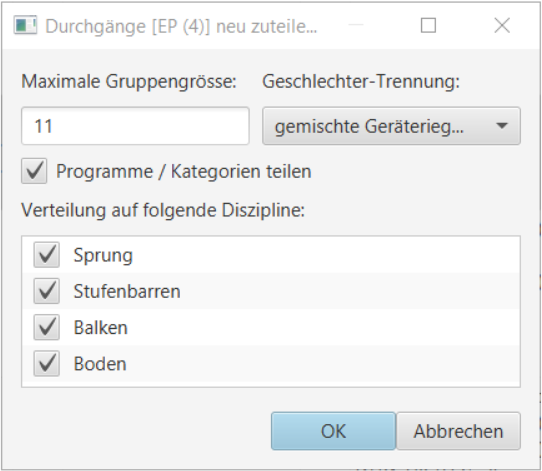
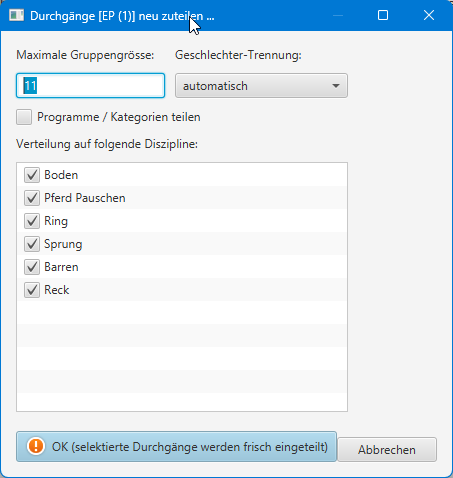
Initial commit v2r3 updates

Changed region(s): [[0.0, 0.0, 1.0, 1.0], [0.7417, 0.4756, 0.7726, 0.5053]]

diff --git a/wettkampf-vorbereitung/riegeneinteilung_erstellen/README.md b/wettkampf-vorbereitung/riegeneinteilung_erstellen/README.md
@@ -9,11 +9,13 @@ Die Riegeneinteilung soll helfen, die Turner in möglichst homogenen und gleichm
 1. `Riegen- & Durchgänge frisch einteilen`: Es werden pro Geschlecht, Kategorie und Verein jeweils eine Riege erstellt. Diese bildet die kleinste verschiebbare Einheit für die Zuweisung auf ein Startgerät in einem Durchgang. Die Funktion kennt momentan nur einen Parameter: Die maximale Gruppengrösse. Sie wird mit 11 vorbelegt und kann vom Benutzer individuell angepasst werden. Danach werden die Gruppen so verteilt, dass pro Durchgang möglichst gleichgrosse Geräteriegen existieren und dass Riegen von einem Verein möglichst zusammenbleiben \(z.B. Turner und Turnerinnen\). Danach können die Zuteilungen in der oberen Liste beliebig verändert werden.
 2. `Einteilung von Riegen & Durchgängen zurücksetzen`: Es werden alle Riegen- und Durchgangs- und Startgeräte-Einteilungen zurückgesetzt.
 
-Wenn mindestens ein Durchgang \(Multiselektion mittels `CTRL+linke Maustaste` oder `SHIFT+linke Maustaste` erweitern\) in der Liste selektiert ist, können darauf diverse Überarbeitungsfunktionen angewendet werden:
+Wenn mindestens ein Durchgang \(Multiselektion mittels `CTRL+linke Maustaste` oder `SHIFT+linke Maustaste` erweitern\) in der Liste selektiert ist, können darauf diverse Überarbeitungsfunktionen angewendet werden (resp. mit `rechte Maustaste` auf der Durchgangs-Zeile für Popup-Menu mit derselben Auswahl):
 
 ![](/assets/edit-riegen-planning.png)
 
-1. ![](/assets/durchgang-partiell-neuverteilen.png)`Durchgang neu einteilen`: Die selektierten Durchgänge können mit angepassten Parameter neu eingeteilt werden. 
+1. `Durchgang neu einteilen`: Die selektierten Durchgänge können mit angepassten Parameter neu eingeteilt werden. 
+
+   ![](/assets/durchgang-partiell-neuverteilen.png)
 
    Die nicht selektierten Durchgänge werden dabei nicht verändert.  
 
@@ -22,8 +24,20 @@ Wenn mindestens ein Durchgang \(Multiselektion mittels `CTRL+linke Maustaste` od
 
 2. `Durchgänge zusammenlegen`: Wenn mindestens zwei Durchgänge selektiert sind, dann können diese mit dieser Funktion zusammengelegt werden. Die Turner-/Innen bleiben dabei bei ihrem eingeteilten Startgerät. Für den zusammengelegten Durchgang kann eine neue Bezeichnung gewählt werden.
 3. `Durchgang umbenennen`: Wenn genau ein Durchgang selektiert ist, dann kann diesem hiermit ein neuer Name vergeben werden. Sollte dabei ein bereits existierender Name vergeben werden, so kommt dies einer Durchgangs-Zusammenlegung gleich.
-4. `In anderen Durchgang verschieben`: Wenn genau ein Durchgang selektiert ist, dann können zugeteilte Riegen in andere Durchgänge verschoben werden. Es klappt ein Untermenü mit allen Riegennamen aus dem Durchgang auf. Die kleinste Riege ist zu oberst, die grösste zu unterst. Wird eine Riege ausgewählt kann im weiteren Untermenü der Ziel-Durchgang ausgewählt werden.
-5. `Auf anderes Startgerät verschieben`: Wenn genau ein Durchgang selektiert ist, dann können zugeteilte Riegen in eine andere Startgerät-Riege verschoben werden. Es klappt ein Untermenü mit allen Riegennamen aus dem Durchgang auf. Die kleinste Riege ist zu oberst, die grösste zu unterst. Wird eine Riege ausgewählt kann im weiteren Untermenü der Ziel-Startgeräteriege ausgewählt werden. Die Ziel-Startgeräteriegen sind mit ihrer aktuellen Grösse gekennzeichnet.
+4. `Durchgänge in Gruppe zusammenfassen`: Bei vielen Durchgängen wird es übersichtlicher, wenn parallel durchführbare Durchgänge in einer übergeordneten Durchganggruppe zusammengefasst werden. Siehe [detailierte Beschreibung für die Durchgang-Planung](durchgang-planung.md)
+5. `Mit leerer Riege besetzen`: Jedes Gerät, das im Wettkampf geturnt werden soll, muss entweder mit mindestens einer Startriege oder aber mit einer leeren Riege belegt werden. Geräte, die keine Riegenblegegung haben, bewirken folgendes Verhalten:
+   * In der Resultaterfassung werden die Geräte ausgeblendet, die keine Riegenbelegung haben.
+   * In der Rangliste werden die Diszipline (Geräte) nicht aufgelistet, wenn sie keine Riegenblegung haben.
+   * _Ausnahme_: Wenn überhaupt keine Einteilung gemacht wird, gibt es keine Ausgeblendeten Diszipline/Geräte.
+
+   Wenn diese Funktion auf einer Disziplin-/Gerätespalte angewendet wird, wird die leere Riege nur dort hinzugefügt.
+   Wenn diese Funktion vorne in der Durchgang-Spalte angewendet wird, werden überall dort leere Riegen hinzugefügt, wo noch keine Startriegeneinteilung existiert.
+6. `Leere Riegen entfernen`: Entfernt eine allenfalls vorhandene leere Riege.
+   
+   Wenn diese Funktion auf einer Disziplin-/Gerätespalte angewendet wird, wird die leere Riege nur dort entfernt.
+   Wenn diese Funktion vorne in der Durchgang-Spalte angewendet wird, werden alle existierende leeren Riegen in dem selektierten Durchgang entfernt.
+7. `In anderen Durchgang verschieben`: Wenn genau ein Durchgang selektiert ist, dann können zugeteilte Riegen in andere Durchgänge verschoben werden. Es klappt ein Untermenü mit allen Riegennamen aus dem Durchgang auf. Die kleinste Riege ist zu oberst, die grösste zu unterst. Wird eine Riege ausgewählt kann im weiteren Untermenü der Ziel-Durchgang ausgewählt werden.
+8. `Auf anderes Startgerät verschieben`: Wenn genau ein Durchgang selektiert ist, dann können zugeteilte Riegen in eine andere Startgerät-Riege verschoben werden. Es klappt ein Untermenü mit allen Riegennamen aus dem Durchgang auf. Die kleinste Riege ist zu oberst, die grösste zu unterst. Wird eine Riege ausgewählt kann im weiteren Untermenü der Ziel-Startgeräteriege ausgewählt werden. Die Ziel-Startgeräteriegen sind mit ihrer aktuellen Grösse gekennzeichnet.
 
 ## Drag & Drop Unterstützung bei der Durchgang-Planung
 

diff --git a/wettkampf-durchfuhrung/ranglisten_erstellen.md b/wettkampf-durchfuhrung/ranglisten_erstellen.md
@@ -6,8 +6,51 @@ Die Rangliste wird sofort in der Standard-Einstellung gerechnet und angezeigt:
 
 |  |  |
 | :--- | :--- |
-| Nun können sowohl Gruppierungen als auch Filter konfiguriert werden, um die Abgrenzungen nach den eigenen Vorstellungen einzustellen. Mit den vier möglichen Gruppierungskriterien lassen sich auf vier Stufen jeweils eine der folgenden Gruppierungskriterien einstellen: So lässt sich z.B. eine separate Rangliste pro Verband oder pro Verein oder pro Jahrgang etc. erstellen. | ![](/assets/rangliste-gruppierungen.png) |
+| Nun können sowohl Gruppierungen als auch Filter konfiguriert werden, um die Abgrenzungen nach den eigenen Vorstellungen einzustellen. Mit den vier möglichen Gruppierungskriterien lassen sich auf vier Stufen jeweils eine der folgenden Gruppierungskriterien einstellen: So lässt sich z.B. eine separate Rangliste pro Verband oder pro Verein oder pro Jahrgang/Altersklasse etc. erstellen. | ![](/assets/rangliste-gruppierungen.png) |
 | Mit dem Filter lässt sich nach der Gruppierung ein Filter einstellen, dass z.B. mit der Gruppierung "`Geschlecht`" im Filter nur noch die Turnerinnen in der Rangliste aufgeführt werden: | ![](/assets/rangliste-filter.png) |
 
-![](/assets/rangliste-drucken.png)Am Ende, oder nach jeder gewünschter Ranglisten-Einstellung, lässt sich die Rangliste drucken: 1. Je nach Papierformat und ausgewähltem Drucker müssen ev. die Anzahl Zeilen pro Seite justiert werden. 2. Mit aktivierter Checkbox "`via Browser`" wird die Rangliste als HTML-Datei gespeichert und im Webbrowser geöffnet. In dieser Form lässt sie sich gut im Internet integrieren, aber auch mit jedem aktuellen Web-Browser ausdrucken. 3. Mit deaktivierter Checkbox "`via Browser`" kann der gewünschte Drucker ausgewählt werden. Beim Drucken via Web-Browser sind jeweils die Seitenränder und die Orientierung so anzupassen, dass die Ranglisten mit dem Seitenumbruch an der richtigen Stelle funktionieren. Beim direkten Drucken sind keine individuellen Einstellungen möglich.
+![](/assets/rangliste-drucken.png)
 
+Am Ende, oder nach jeder gewünschter Ranglisten-Einstellung, lässt sich die Rangliste drucken:
+
+1. Je nach Papierformat und ausgewähltem Drucker müssen ev. die Anzahl Zeilen pro Seite justiert werden. 
+2. Mit aktivierter Checkbox "`via Browser`" wird die Rangliste als HTML-Datei gespeichert und im Webbrowser geöffnet. In dieser Form lässt sie sich gut im Internet integrieren, aber auch mit jedem aktuellen Web-Browser ausdrucken.
+3. Mit deaktivierter Checkbox "`via Browser`" kann der gewünschte Drucker ausgewählt werden. Beim Drucken via Web-Browser sind jeweils die Seitenränder und die Orientierung so anzupassen, dass die Ranglisten mit dem Seitenumbruch an der richtigen Stelle funktionieren. Beim direkten Drucken sind keine individuellen Einstellungen möglich.
+
+## Rangliste Einstellungen speichern
+
+Um am Wettkampf selbst keine Überraschungen bei der Ranglistenerstellung zu befürchten, lassen sich die gewünschten Einstellungen abspeichern.
+
+![](/assets/rangliste-speichern.png)
+
+Gespeicherte Ranglisteneinstellungen werden auch mit der Wettkampf Export-Funktion mit exportiert und können so bequem auf den Rechner im Rechnungsbüro übertragen werden.
+
+Die gespeicherten Einstellungen können auch bei anderen Wettkämpfen wiederverwendet werden. Sie lassen sich einfach per Copy/Paste aus dem Wettkampf-Folder an den neuen Ziel-Wettkampf kopieren.
+
+![](/assets/rangliste-gespeichert-auswaehlen.png)
+
+## Gespeicherte Rangliste bereitstellen und publizieren
+
+Wenn der Wettkampf im Netz hochgeladen ist, und aktuell eine Verbindung zum Server hergestellt ist, kann die gespeicherte Ranglisteneinstellung auf dem Server bereitgestellt werden:
+
+![](/assets/rangliste-bereiststellen.png)
+
+Der Name der Rangliste kann hierüber auch etwas weniger technisch formuliert werden:
+
+![](/assets/rangliste-bereiststellen-dlg.png)
+
+
+Nach dem Bereitstellen steht auch die `Publikation freigeben` funktion zur Verfügung:
+
+![](/assets/rangliste-bereiststellen2.png)
+
+Bis dahin ist die Rangliste online sichtbar (als Titel), wird aber noch ohne Inhalt angezeigt:
+
+![](/assets/rangliste-bereitgestellt-webapp.png)
+![](/assets/rangliste-bereitgestellt-webapp2.png)
+
+Erst wenn die Rangliste publiziert wird (in der Regel nach der Rangverkündigung), wird sie für alle Webapp-Benutzer mit Inhalt sichtbar:
+
+![](/assets/rangliste-publizieren.png)
+
+Eine publizierte Rangliste kann nicht mehr zurückgenommen werden. Allerdings lässt sich die Bereitstellung wiederholen, mit geänderten Parameter. Dies ist nur Sinnvoll, wenn nach der Publikation Fehler in den Filtereinstellungen korrigiert werden müssen.

diff --git a/wettkampf-vorbereitung/wettkampf_uebersicht/altersklassen.md b/wettkampf-vorbereitung/wettkampf_uebersicht/altersklassen.md
@@ -1,0 +1,66 @@
+# Altersklassen
+
+Altersklassen sind ein Gruppierungs-Hilfsmittel sowohl für die Riegen-Zusammenstellung, als auch für die Ranglistenerstellung.
+
+## Einteilung in Riege für die Durchgangsplanung
+
+Es können damit alle Teilnemher/-Innen einer Altersklasse in einer Riege im Durchgang eingeteilt werden. Dies ermöglicht die Planung, wie die Wertungs-/Kampfrichter aufgestellt werden müssen. Diese müssen dann jeweils alle einer Altersklasse bewerten, so dass es konsistente Bewertungungen geben kann.
+
+## Berechnung des Medallienbedarfs
+
+Wenn die Ranglisten anhand der Altersklassen gruppiert werden, sind die erforderlichen Medallien nicht ausschliesslich aus den Wettkampf-Programmen abzuleiten, sondern zusätzlich auch noch pro existierender Altersklasseneinteilung.
+
+## Zusammenfassung in der Rangliste
+
+Es können damit alle Teilnehmer/-Innen einer Altersklasse in einer gemeinsamen Rangierung aufgelistet werden.
+
+## Berechnungsarten
+
+### Alter am Wettkampf-Tag
+
+Die Altersklasse berechnet sich anhand des effektiven Geburtsdatums des Teilnehmers, der Teilnehmerin. Dieses wird gegenüber dem Wettkampfdatum gestellt. Die Differenz in ganzen Jahren ist die relevante Zahl für die Eingliederung in die Altersklasse.
+
+### Alter nach Jahrgang in dem Jahr, wo der Wettkampf durchgeführt wird.
+
+Die Jahrgangs-Altersklasse berechnet sich anhand des Jahrgangs des Teilnehmers, der Teilnehmerin. Dieses wird gegenüber dem Jahr im Wettkampf-Datum gestellt. Die Differenz ist die relevante Zahl für die Eingliederung in die Altersklasse.
+
+## Gliederungsmöglichkeiten der Altersklassen
+
+Die Alterklassen werden im Grunde anhand von Altersgrenzen mit numerischen Angaben und komma-separiert festgelegt.
+Die Altergrenzen `7,10,16,25` ergeben damit folgende Altersklassen:
+* Altersklasse bis 6
+* Altersklasse 7-9
+* Altersklasse 10-15
+* Altersklasse 16-24
+* Altersklasse ab 25
+
+Um komplexere Strukturen zu definieren, gibt es zusätzlich folgende Möglichkeiten:
+* Explizite Angabe der Altersklassenbezeichnung (vorangestellte Buchstaben `<Bezeichnung><Altersgrenze>`)
+* Range-Angabe für automatische Inkrements um 1 Jahr zwischen zwei Altersgrenzen (verbinden der Altersgrenze mit Bindestrich `<von>-<bis>`)
+* Explzite Inkrement-Angabe, sofern in einem Range nicht jedes Jahr eine neue Altersgrenze generieren soll (vinbinden mit Division und Inkrement-Wert `/<Inkrement-Wert>`)
+
+Zusammengesetzt ergibt sich volgener Syntax:
+
+`[<Bezeichnung>]<VonAlter>[-<BisAlter>[/<InkrementWert]]`
+
+## Altersklasse als Wettkampf-Bestandteil
+
+Wenn die Altersklassen im Erfassungsdialog zum Wettkampf definiert oder ausgewählt wird, wird sie sowohl in der Wettkampfübersicht als auch bei der Riegeneinteilung und in der Rangliste integriert angewendet.
+
+In der Wettkampf-Übersicht werden die Wettkampf-Altersklassen aufgeführt, und die Gliederungen mit den Altersklassen erweitert:
+Beispiel mit Turn10:
+![](/assets/Turn10-Wettkampfuebersicht-Altersklassen.png)
+
+Beispiel TG Allgäu:
+![](/assets/TGAllgaeu-Wettkampfuebersicht-Altersklassen.png)
+
+Die Riegeneinteilung erfolgt anhand der hinterlegten Altersklassen.
+
+Beispiel TG Allgäu mit Pflicht und Kür und Riegen mit Altersklassen-Bezeichnungen:
+![](/assets/TGAllgaeu-WertungTab-Pflicht-Kuer-Altersklassen-Riegen.png)
+
+## Altersklasse als dynamisch hinzugefügter Filter/Gruppierer in der Rangliste
+
+Sofern nicht primär nach Altersklassen dividiert wird, kann es immer noch sinnvoll sein, die Altersklassen-Gliederung in der Rangliste zu verwenden. Diese Möglichkeit besteht dann (ohne Wettkampf-Altersklassen) mit den vordefinierten Altersklassen.
+
+![](/assets/rangliste-altersklasse-grouper.png)

diff --git a/stammdatenpflege/wettkampf_anlegen.md b/stammdatenpflege/wettkampf_anlegen.md
@@ -8,19 +8,33 @@ Dabei öffnet sich ein Dialog, in dem folgende Werte angegeben werden müssen:
 
 ![](/assets/wettkampf-anlegen-dlg.png)
 
-1. Datum, an dem der Wettkampf durchgeführt wird.
-2. Name des Wettkampfs \(Wettkampftitel\)
-3. Art des Wettkampfs \(Programm\). Dies können folgende Wettkampfarten sein: Geräteturn-Wettkampf, Kunstturn-Wettkampf 
-
-   oder Athletiktest.
+1. Wettkampf-Datum, an dem der Wettkampf durchgeführt wird.
+2. Titel des Wettkampfs, ohne Datum, ev. mit Ortsangabe (z.B. GeTu-Regionalmeisterschaft Basel-Stadt)
+3. Art des Wettkampfs \(Programm\). Dies können folgende Wettkampfarten sein:
+   * Geräteturn-Wettkampf (plus eine Variante BLTV mit Altersabgrenzungen in den Kategorien)
+   * [Turn10® Programme BS/OS](https://www.turn10.at/de/das-ist-turn10)
+      * Turn10®-Verein [Abbildung Turn10® Verein](https://www.turn10.at/de/vereine/regeln) für bis zu 7 Geräte (Geräte mit ausschliesslich M/W oder gemischt M+W Belegungsregeln)
+      * Turn10®-Schule [Abbildung Turn10® Schule](https://www.turn10.at/de/schulen/regeln2) für bis zu 5 Geräte (Barren/Balken mit ausschliesslicher M/W, Rest mit gemischt M+W Belegungungsregel)
+   * Kunstturn-Wettkampf
+      * KuTu-Wettakmpf für männliche Gerätebelegung
+      * KuTuRi-Wettkampf für die weibliche Gerätebelegung
+      * KuTu TG Allgäu Kür & Pflicht (Spezialprogramm mit Pflicht & Kür und angepassten DTB Programmen, männlicher Gerätebelegungsregel)
+      * KuTuRi TG Allgäu Kür & Pflicht (Spezialprogramm mit Pflicht & Kür und angepassten DTB Programmen, weiblicher Gerätebelegungsregel)
+   * 
+   * Athletiktest
 4. EMail-Adresse für die Notifikation an die Wettkampf-Administration bei Online-Anmeldungen
-5. Schwellwerte für Auszeichnungen. Die Prozent-Angabe darf bis zu drei Stellen nach dem Komma haben. Die Angaben 
-
-   können kombiniert verwendet werden. So kann z.B. eine Auszeichnung für die 40% Besten Ergebnisse und bei Erreichung 
-
-   eines Mindest-Gerätedurchschnitts vergeben werden. 
-
-   Bei Geräte-Tests wird oft eine Auszeichnung vergeben, wenn mind. 7.5 Punkte im Gerätedurchschnitt erreicht werden.
-
+5. Schwellwerte für Auszeichnungen. 
+   * Die Prozent-Angabe darf bis zu drei Stellen nach dem Komma haben.
+   * Die Angaben können kombiniert verwendet werden. So kann z.B. eine Auszeichnung für die 40% Besten Ergebnisse und bei Erreichung
+     eines Mindest-Gerätedurchschnitts vergeben werden. 
+   * Bei Geräte-Tests wird oft eine Auszeichnung vergeben, wenn mind. 7.5 Punkte im Gerätedurchschnitt erreicht werden.
+6. (optional) Altersklassen (Alter am Wettkampftag):
+   * [Turn10® (AK7-18,AK24,AK30-100/5)](https://www.turn10.at/de/vereine/regeln/docdown-4-NAw02AlwnzzQ)
+   * [DTB Allgemein (AK6,AK18,AK22,AK25)](https://www.dtb.de/fileadmin/user_upload/dtb.de/Passwesen/Wettkampfordnung_DTB_2021.pdf)
+   * [DTB Pflicht (AK8-9,AK11-19/2)](https://www.dtb.de/fileadmin/user_upload/dtb.de/TURNEN/Standards/PDFs/Rahmentrainingskonzeption-GTm_inklAnlagen_19.11.2020.pdf)
+   * [DTB Kür (AK13-19/2)](https://www.dtb.de/fileadmin/user_upload/dtb.de/TURNEN/Standards/PDFs/Rahmentrainingskonzeption-GTm_inklAnlagen_19.11.2020.pdf)
+7. (optional) Jahrgang Altersklassen (Alter im Jahr des Wettkampfes, auf Jahrgang-Basis):
+   * Beinhaltet dieselben Altersklassen-Belegungsmöglichkeiten wie die "Alter am Wettkampftag" Altersklassen
+   
 Mit "`OK`" wird der Wettkampf angelegt.
 

diff --git a/wettkampf-vorbereitung/riegeneinteilung_erstellen/durchgang-neu-einteilen.md b/wettkampf-vorbereitung/riegeneinteilung_erstellen/durchgang-neu-einteilen.md
@@ -2,12 +2,12 @@
 
 |  |  |
 | :--- | :--- |
-| Die selektierten Durchgänge können mit angepassten Parameter neu eingeteilt werden. Die nicht selektierten Durchgänge werden dabei nicht verändert. Im Dialog werden die neuen Parameter angegeben. | ![](/assets/getu-durchgang-partial-replanning-options.png) |
+| Die selektierten Durchgänge können mit angepassten Parameter neu eingeteilt werden. Die nicht selektierten Durchgänge werden dabei nicht verändert. Im Dialog werden die neuen Parameter angegeben. Bisherige Geräte-Zuweisungen werden vorbelegt. | ![](/assets/getu-durchgang-partial-replanning-options.png) |
 
 | Funktion | Beschreibung |
 | :--- | :--- |
-| Maximale Gruppengrösse | limitieren oder erweitern, was zu mehr oder weniger Durchgängen führen kann. |
-| Geschlechter-Trennung | Bei `gemischte Geräterieten` werden geschlecht-gemischte Rigen erstellt. Bei `gemischter Durchgang` werden Riegen ohne Geschlechts-Durchmischung erstellt, innerhalb eines Durchganges werden jedoch Riegen beider Geschlechter eingeteilt. Bei `getrennte Durchgänge` werden Durchgänge ohne Geschlechts-Durchmischung erstellt. |
+| Maximale Gruppengrösse | Limitieren oder erweitern, was zu mehr oder weniger Durchgängen führen kann. Mit dem Wert `0` ist die Gruppengrösse unlimitiert. |
+| Geschlechter-Trennung | Bei `gemischte Geräteriegen` werden geschlecht-gemischte Riegen erstellt. Bei `gemischter Durchgang` werden Riegen ohne Geschlechts-Durchmischung erstellt, innerhalb eines Durchganges werden jedoch Riegen beider Geschlechter eingeteilt. Bei `getrennte Durchgänge` werden Durchgänge ohne Geschlechts-Durchmischung erstellt. Mit `automatisch` entscheidet das Programm anhand der Geräte-Geschlechtszuordnungsregel, ob in einem Durchgang die Geschlechter getrennt werden sollen. Wenn beide Geschlechter dieselben Geräte turnen, wird `gemischte Geräteriegen` verwendet, ansonste `getrennte Durchgänge`. |
 | Programme / Kategorien teilen | Wenn diese Option aktiviert ist, dann gibt es pro Programm/Kategorie eigene Durchgänge. Im deaktivierten Zustand können Programme/Kategorien in einem Durchgang gemischt werden. |
 | Verteilung auf Diszipline | Einzelne `Geräte` im Durchgang `ausschliessen` oder mit `einschliessen`, was zu grösseren oder kleineren Gruppen führt und dadurch ev. mehr oder weniger Durchgängen. |
 

diff --git a/wettkampf-vorbereitung/riegeneinteilung_erstellen/riegeneinteilung_erstellen_mustervorgehen_getu.md b/wettkampf-vorbereitung/riegeneinteilung_erstellen/riegeneinteilung_erstellen_mustervorgehen_getu.md
@@ -23,8 +23,8 @@ Diese können einzeln oder mit Multiselection auf mehreren Durchgängen neu vert
 
 | Funktion | Beschreibung |
 | ---: | :--- |
-| Maximale Gruppengrösse | limitieren oder erweitern, was zu mehr oder weniger Durchgängen führen kann. |
-| Geschlechter-Trennung | Bei `gemischte Geräterieten` werden geschlecht-gemischte Rigen erstellt Bei `gemischter Durchgang` werden Riegen ohne Geschlechts-Durchmischung erstellt, innerhalb eines Durchganges werden jedoch Riegen beider Geschlechter eingeteilt Bei `getrennte Durchgänge` werden Durchgänge ohne Geschlechts-Durchmischung erstellt  Die Aufteilung auf Geschlechts-Ebene kann helfen, die Turner in einen separaten Durchgang zu ziehen, in welchem dann z.B. auch Barren verwendet wird: ![Riegen &amp; Durchg&#xE4;nge Einteilung nachbearbeiten 3](/assets/getu-durchgang-partial-replanning-barren.png) |
+| Maximale Gruppengrösse | Limitieren oder erweitern, was zu mehr oder weniger Durchgängen führen kann. |
+| Geschlechter-Trennung | Bei `gemischte Geräterieten` werden geschlecht-gemischte Riegen erstellt. Bei `gemischter Durchgang` werden Riegen ohne Geschlechts-Durchmischung erstellt, innerhalb eines Durchganges werden jedoch Riegen beider Geschlechter eingeteilt Bei `getrennte Durchgänge` werden Durchgänge ohne Geschlechts-Durchmischung erstellt.  Die Aufteilung auf Geschlechts-Ebene kann helfen, die Turner in einen separaten Durchgang zu ziehen, in welchem dann z.B. auch Barren verwendet wird: ![Riegen &amp; Durchg&#xE4;nge Einteilung nachbearbeiten 3](/assets/getu-durchgang-partial-replanning-barren.png) |
 | Programme / Kategorien teilen | Wenn diese Option aktiviert ist, dann gibt es pro Programm/Kategorie eigene Durchgänge. Im deaktivierten Zustand können Programme/Kategorien in einem Durchgang gemischt werden. |
 | Verteilung auf Diszipline | Einzelne `Geräte` im Durchgang `ausschliessen` oder mit `einschliessen` \(Barren\), was zu grösseren oder kleineren Gruppen führt und dadurch ev. mehr oder weniger Durchgängen. |
 

diff --git a/wettkampf-vorbereitung/riegeneinteilung_erstellen/riegeneinteilung_erstellen_mustervorgehen_att.md b/wettkampf-vorbereitung/riegeneinteilung_erstellen/riegeneinteilung_erstellen_mustervorgehen_att.md
@@ -4,7 +4,7 @@ Für einen Athletiktest gibt es in der Regel die Rangierung pro Jahrgang. Die in
 
 ![Riegen &amp; Durchg&#xE4;nge frisch einteilen](/assets/att-suggest-init.png)
 
-Diese Funktion gruppiert primär nach Geschlecht und nach Jahrgang. Zu grosse Gruppen werden gesplittet, so dass eine pro Station im Durchgang gleichmässige Verteilung möglich wird. Wenn wie im Beispiel die Vorbelegung bei `Maximale Gruppengrösse` der Wert `0` verwendet wird, so werden für den Athletiktest standardmässig zwei Durchgänge eingerichtet.
+Diese Funktion gruppiert primär nach Geschlecht und nach Jahrgang. Bei grosser Teilnehmerzahl wird der Verein dazugenommen. Zu grosse Gruppen werden gesplittet, so dass eine pro Station im Durchgang gleichmässige Verteilung möglich wird. Wenn wie im Beispiel die Vorbelegung bei `Maximale Gruppengrösse` der Wert `0` verwendet wird, so werden für den Athletiktest standardmässig zwei Durchgänge eingerichtet.
 
 1. Beweglichkeits-Stationen
 2. Kraft-Stationen

diff --git a/README.md b/README.md
@@ -2,10 +2,10 @@
 
 ## Benutzeranleitung
 
-_für die Version 2.2 der Turner Wettkampf App_
+_für die Version 2.3 der Turner Wettkampf App_
 
 ### Gitbook Link
-[https://luechtdiode.gitbook.io/turner-wettkampf-app/v/v2r2/](https://luechtdiode.gitbook.io/turner-wettkampf-app/v/v2r2/)
+[https://luechtdiode.gitbook.io/turner-wettkampf-app/v/v2r3/](https://luechtdiode.gitbook.io/turner-wettkampf-app/v/v2r3/)
 
 ### Github Link (Quelle)
-[https://github.com/luechtdiode/turner-wettkampf-app-doku/blob/v2r2/SUMMARY.md](https://github.com/luechtdiode/turner-wettkampf-app-doku/blob/v2r2/SUMMARY.md)
+[https://github.com/luechtdiode/turner-wettkampf-app-doku/blob/v2r3/SUMMARY.md](https://github.com/luechtdiode/turner-wettkampf-app-doku/blob/v2r3/SUMMARY.md)

diff --git a/wettkampf-vorbereitung/riegeneinteilung_erstellen/riegeneinteilung_erstellen_mustervorgehen_kutu.md b/wettkampf-vorbereitung/riegeneinteilung_erstellen/riegeneinteilung_erstellen_mustervorgehen_kutu.md
@@ -6,7 +6,7 @@ Die initiale Riegenaufteilung wird mit dem Button `Riegen- & Durchgangs-Einteilu
 
 Die KuTu oder KuTuri Riegenverteilung verteilt standardmässig mit einer Gruppengrösse von maximal 11 Turner/-Innen pro Startgerät:
 
-![Riegen &amp; Durchg&#xE4;nge frisch einteilen](/assets/riegen-einteilen-dlg.png)
+![Riegen &amp; Durchg&#xE4;nge frisch einteilen](/assets/kutu-riegen-einteilen-dlg.png)
 
 Danach kann es pro Programm mehrere Durchgänge geben:
 

diff --git a/wettkampf-vorbereitung/wettkampf_uebersicht/README.md b/wettkampf-vorbereitung/wettkampf_uebersicht/README.md
@@ -27,3 +27,4 @@ Die ausgewählte Datei wird in den Wettkampf-Ordner kopiert und auf den Dateinam
 
 Um die angezeigte Darstellung ausserhalb der App nutzen zu können lassen sich die Daten via `Übersicht drucken...` exportieren.
 
+Siehe auch die detailierte Beschreibung für die [Verwendung von Altersklassen](altersklassen.md)

diff --git a/stammdatenpflege/wettkampf_bearbeiten.md b/stammdatenpflege/wettkampf_bearbeiten.md
@@ -8,3 +8,4 @@ Im anschliessend geöffneten Dialog können dann die Daten bearbeitet werden:
 
 ![](/assets/wettkampf-bearbeiten-dlg.png)
 
+Die verwendung der Felder ist analog wie bei der Neuanlage des Wettkampfes. Siehe [Wettkampf anlegen](wettkampf_anlegen.md)
